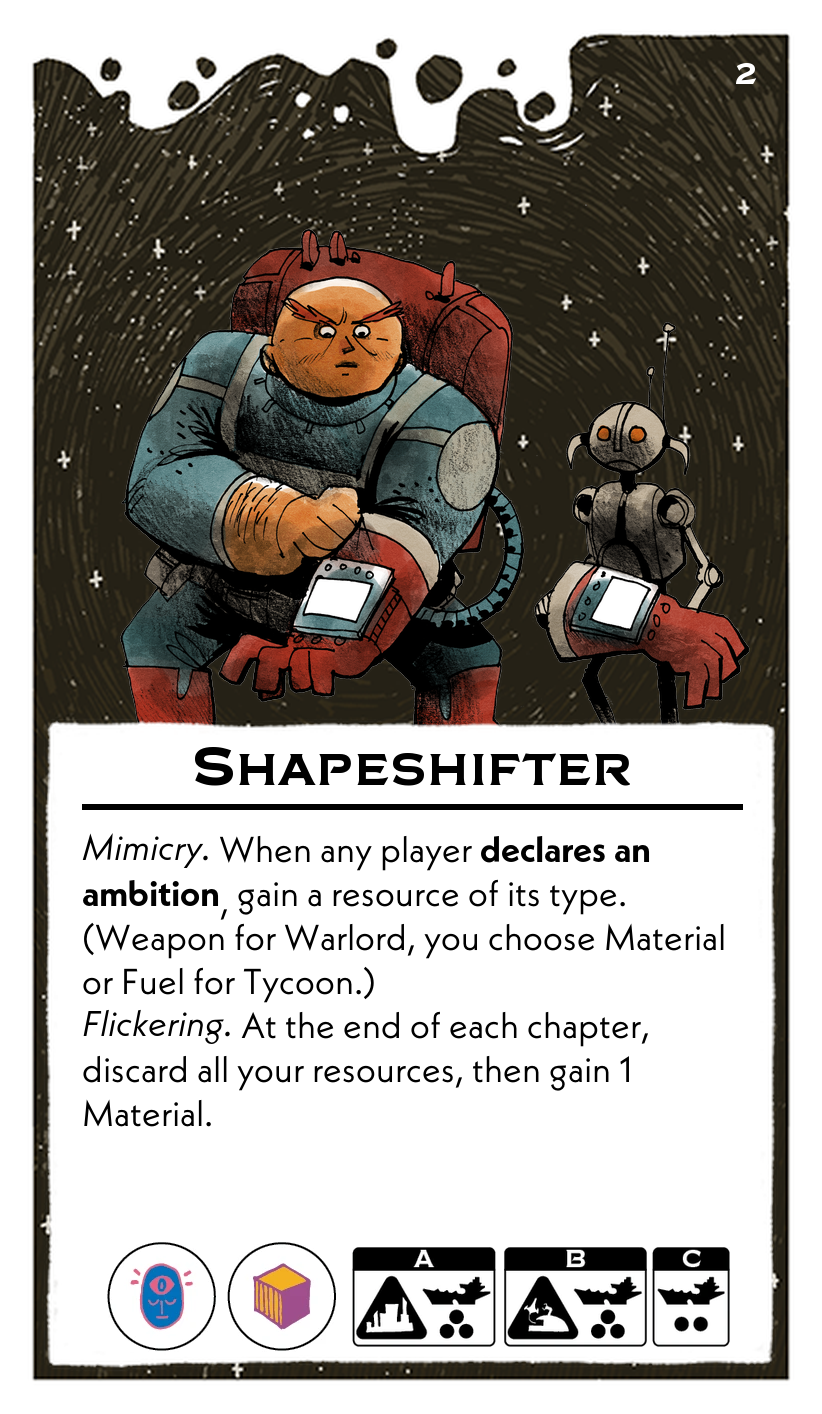
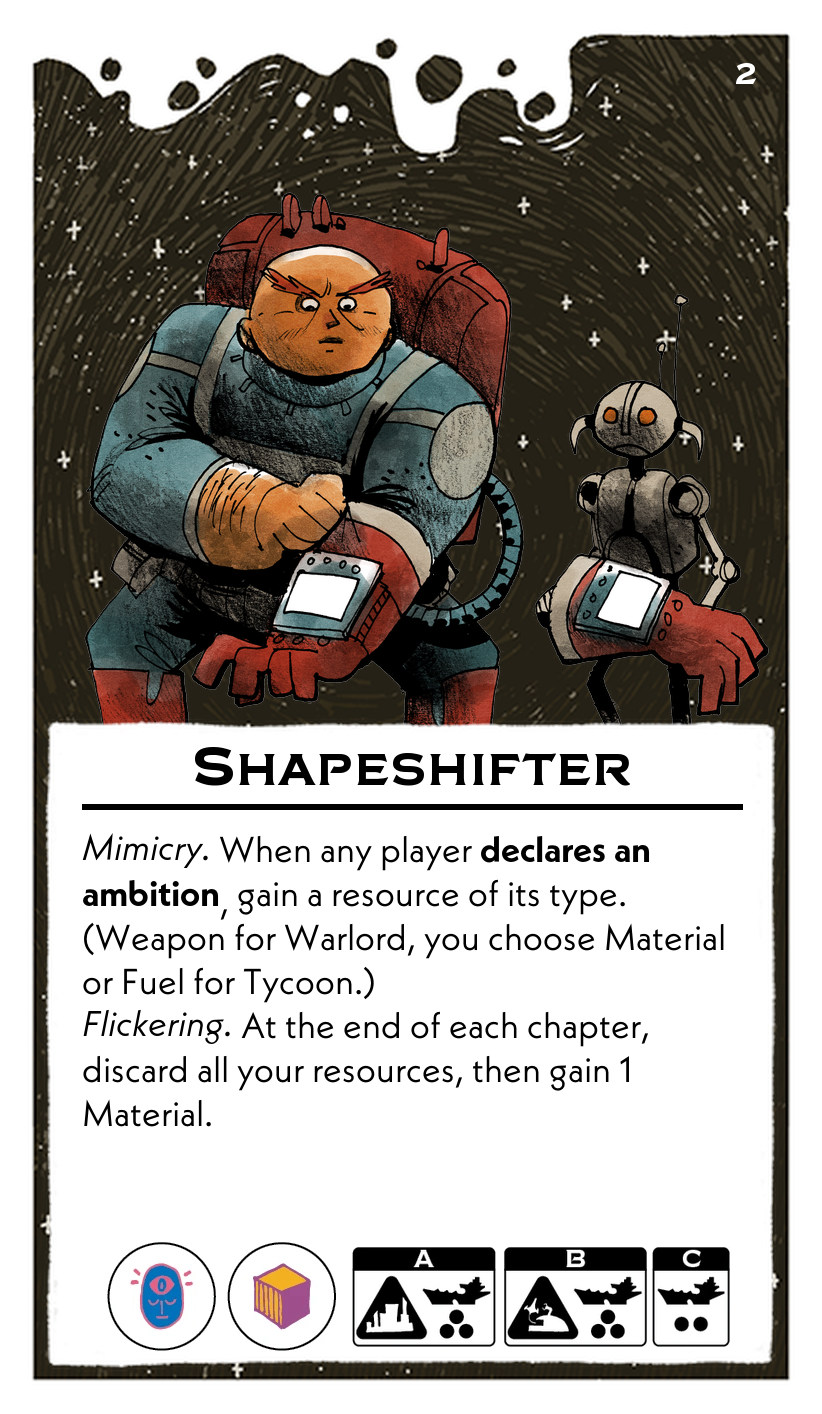
sshtr

Changed region(s): [[0.0912, 0.1245, 0.9428, 0.529], [0.8212, 0.1867, 0.8516, 0.2178]]

diff --git a/scripts/leadersFormatted.py b/scripts/leadersFormatted.py
@@ -30,7 +30,7 @@ leaders = [
             "C": {"ships": 2, "building": "None"}
         },
         "body_font_size": 18,
-        "zoom": 1.2,
+        "zoom": 1.1,
         "boundary_shift": 0.1
     },
     # Sentient
